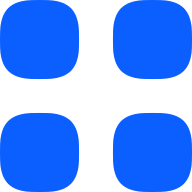
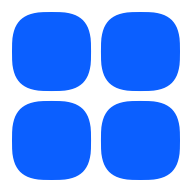
Tighten four-tile app mark

diff --git a/index.html b/index.html
@@ -12,9 +12,9 @@
     <meta name="apple-mobile-web-app-capable" content="yes">
     <meta name="apple-mobile-web-app-status-bar-style" content="default">
     <link rel="manifest" href="site.webmanifest">
-    <link rel="icon" href="icons/fluent-icons.svg?v=6" type="image/svg+xml">
-    <link rel="icon" href="icons/fluent-icons-192.png?v=6" type="image/png">
-    <link rel="apple-touch-icon" href="icons/fluent-icons-192.png?v=6">
+    <link rel="icon" href="icons/fluent-icons.svg?v=7" type="image/svg+xml">
+    <link rel="icon" href="icons/fluent-icons-192.png?v=7" type="image/png">
+    <link rel="apple-touch-icon" href="icons/fluent-icons-192.png?v=7">
     <meta property="og:type" content="website">
     <meta property="og:title" content="Fluent Icons">
     <meta property="og:description" content="Browse Fluent System and Fabric MDL2 icons by name, meaning, and visual variant.">
@@ -150,10 +150,10 @@
                                     <path id="brand-inner-squircle" d="M 7.00 3.50 L 6.99 4.24 L 6.96 4.68 L 6.90 5.03 L 6.82 5.34 L 6.72 5.62 L 6.59 5.87 L 6.45 6.08 L 6.28 6.28 L 6.08 6.45 L 5.87 6.59 L 5.62 6.72 L 5.34 6.82 L 5.03 6.90 L 4.68 6.96 L 4.24 6.99 L 3.50 7.00 L 2.76 6.99 L 2.32 6.96 L 1.97 6.90 L 1.66 6.82 L 1.38 6.72 L 1.13 6.59 L 0.92 6.45 L 0.72 6.28 L 0.55 6.08 L 0.41 5.87 L 0.28 5.62 L 0.18 5.34 L 0.10 5.03 L 0.04 4.68 L 0.01 4.24 L 0.00 3.50 L 0.01 2.76 L 0.04 2.32 L 0.10 1.97 L 0.18 1.66 L 0.28 1.38 L 0.41 1.13 L 0.55 0.92 L 0.72 0.72 L 0.92 0.55 L 1.13 0.41 L 1.38 0.28 L 1.66 0.18 L 1.97 0.10 L 2.32 0.04 L 2.76 0.01 L 3.50 0.00 L 4.24 0.01 L 4.68 0.04 L 5.03 0.10 L 5.34 0.18 L 5.62 0.28 L 5.87 0.41 L 6.08 0.55 L 6.28 0.72 L 6.45 0.92 L 6.59 1.13 L 6.72 1.38 L 6.82 1.66 L 6.90 1.97 L 6.96 2.32 L 6.99 2.76 L 7.00 3.50 Z"></path>
                                 </defs>
                                 <g transform="translate(-4.941176 -4.941176) scale(1.411765)">
-                                    <use href="#brand-inner-squircle" x="3.5" y="3.5"></use>
-                                    <use href="#brand-inner-squircle" x="13.5" y="3.5"></use>
-                                    <use href="#brand-inner-squircle" x="3.5" y="13.5"></use>
-                                    <use href="#brand-inner-squircle" x="13.5" y="13.5"></use>
+                                    <use href="#brand-inner-squircle" x="4.5625" y="4.5625"></use>
+                                    <use href="#brand-inner-squircle" x="12.4375" y="4.5625"></use>
+                                    <use href="#brand-inner-squircle" x="4.5625" y="12.4375"></use>
+                                    <use href="#brand-inner-squircle" x="12.4375" y="12.4375"></use>
                                 </g>
                             </svg>
                         </span>

diff --git a/service-worker.js b/service-worker.js
@@ -7,9 +7,9 @@ const APP_SHELL = [
     "style.css?v=31",
     "script.js?v=12",
     "icon-data.json",
-    "icons/fluent-icons.svg?v=6",
-    "icons/fluent-icons-192.png?v=6",
-    "icons/fluent-icons-512.png?v=6"
+    "icons/fluent-icons.svg?v=7",
+    "icons/fluent-icons-192.png?v=7",
+    "icons/fluent-icons-512.png?v=7"
 ];
 
 self.addEventListener("install", (event) => {

diff --git a/CONTEXT.md b/CONTEXT.md
@@ -138,7 +138,7 @@ The UI loads `icon-data.json` at runtime and provides:
 
 - Repository should stay static-first (no bundler/build frontend stack).
 - The browser follows Meridian's Keel design language while retaining its dense gallery and icon-specific interaction model: Hanken Grotesk for interface copy, Fira Code for numeric/status content, a 64-pixel frosted header, neutral layered surfaces, blue action accents, 10/12/18-pixel radii, and shared system light/dark tokens.
-- The favicon/app mark is four filled `nX=3`, `nY=3` Lamé superellipses in the base action blue (`#0B5FFF`) on transparency. The four-tile group is uniformly scaled from its original `7×7` tile geometry so its outside edges span the complete `24×24` viewBox formerly occupied by the enclosing tile, preserving the original tile-to-gap proportions. The curves follow Squircle Portal's 64-segment sampling and two-decimal coordinate precision. Favicon URLs carry a revision query when the artwork changes to avoid stale browser caches. The page header reuses the same path, full-viewBox group transform, and transparent composition, filled with the theme's current action blue (`--accent`).
+- The favicon/app mark is four filled `nX=3`, `nY=3` Lamé superellipses in the base action blue (`#0B5FFF`) on transparency. The original `7×7` tile geometry remains uniformly scaled within a `24×24` viewBox; each tile is shifted `1.5` artboard units toward the centre, leaving a matching transparent outer inset while preserving tile and artboard size. The curves follow Squircle Portal's 64-segment sampling and two-decimal coordinate precision. Favicon URLs carry a revision query when the artwork changes to avoid stale browser caches. The page header reuses the same path, transform, spacing, and transparent composition, filled with the theme's current action blue (`--accent`).
 - `icon-data.json` is committed so Pages can serve immediately.
 - Sync workflow uses sparse checkout of upstream `assets/` for efficiency.
 - Fluent icon SVG payloads are loaded from `raw.githubusercontent.com` URLs pinned to upstream SHA instead of being embedded in `icon-data.json`.

diff --git a/HISTORY.md b/HISTORY.md
@@ -1,5 +1,6 @@
 # History
 
+- Tightened the four-tile favicon/header composition by moving each unchanged tile `1.5` artboard units toward the centre while retaining the `24×24` canvas.
 - Removed the enclosing favicon tile and outlined treatment, then uniformly expanded the four shared `n=3` inner tiles to the former outer `24×24` bounds as a filled blue mark on transparency.
 - Rounded the four shared inner favicon/header tiles from Lamé `n=4` to `n=3` while retaining the `n=4` outer favicon silhouette, tile geometry, stroke weight, and action-blue identity.
 
